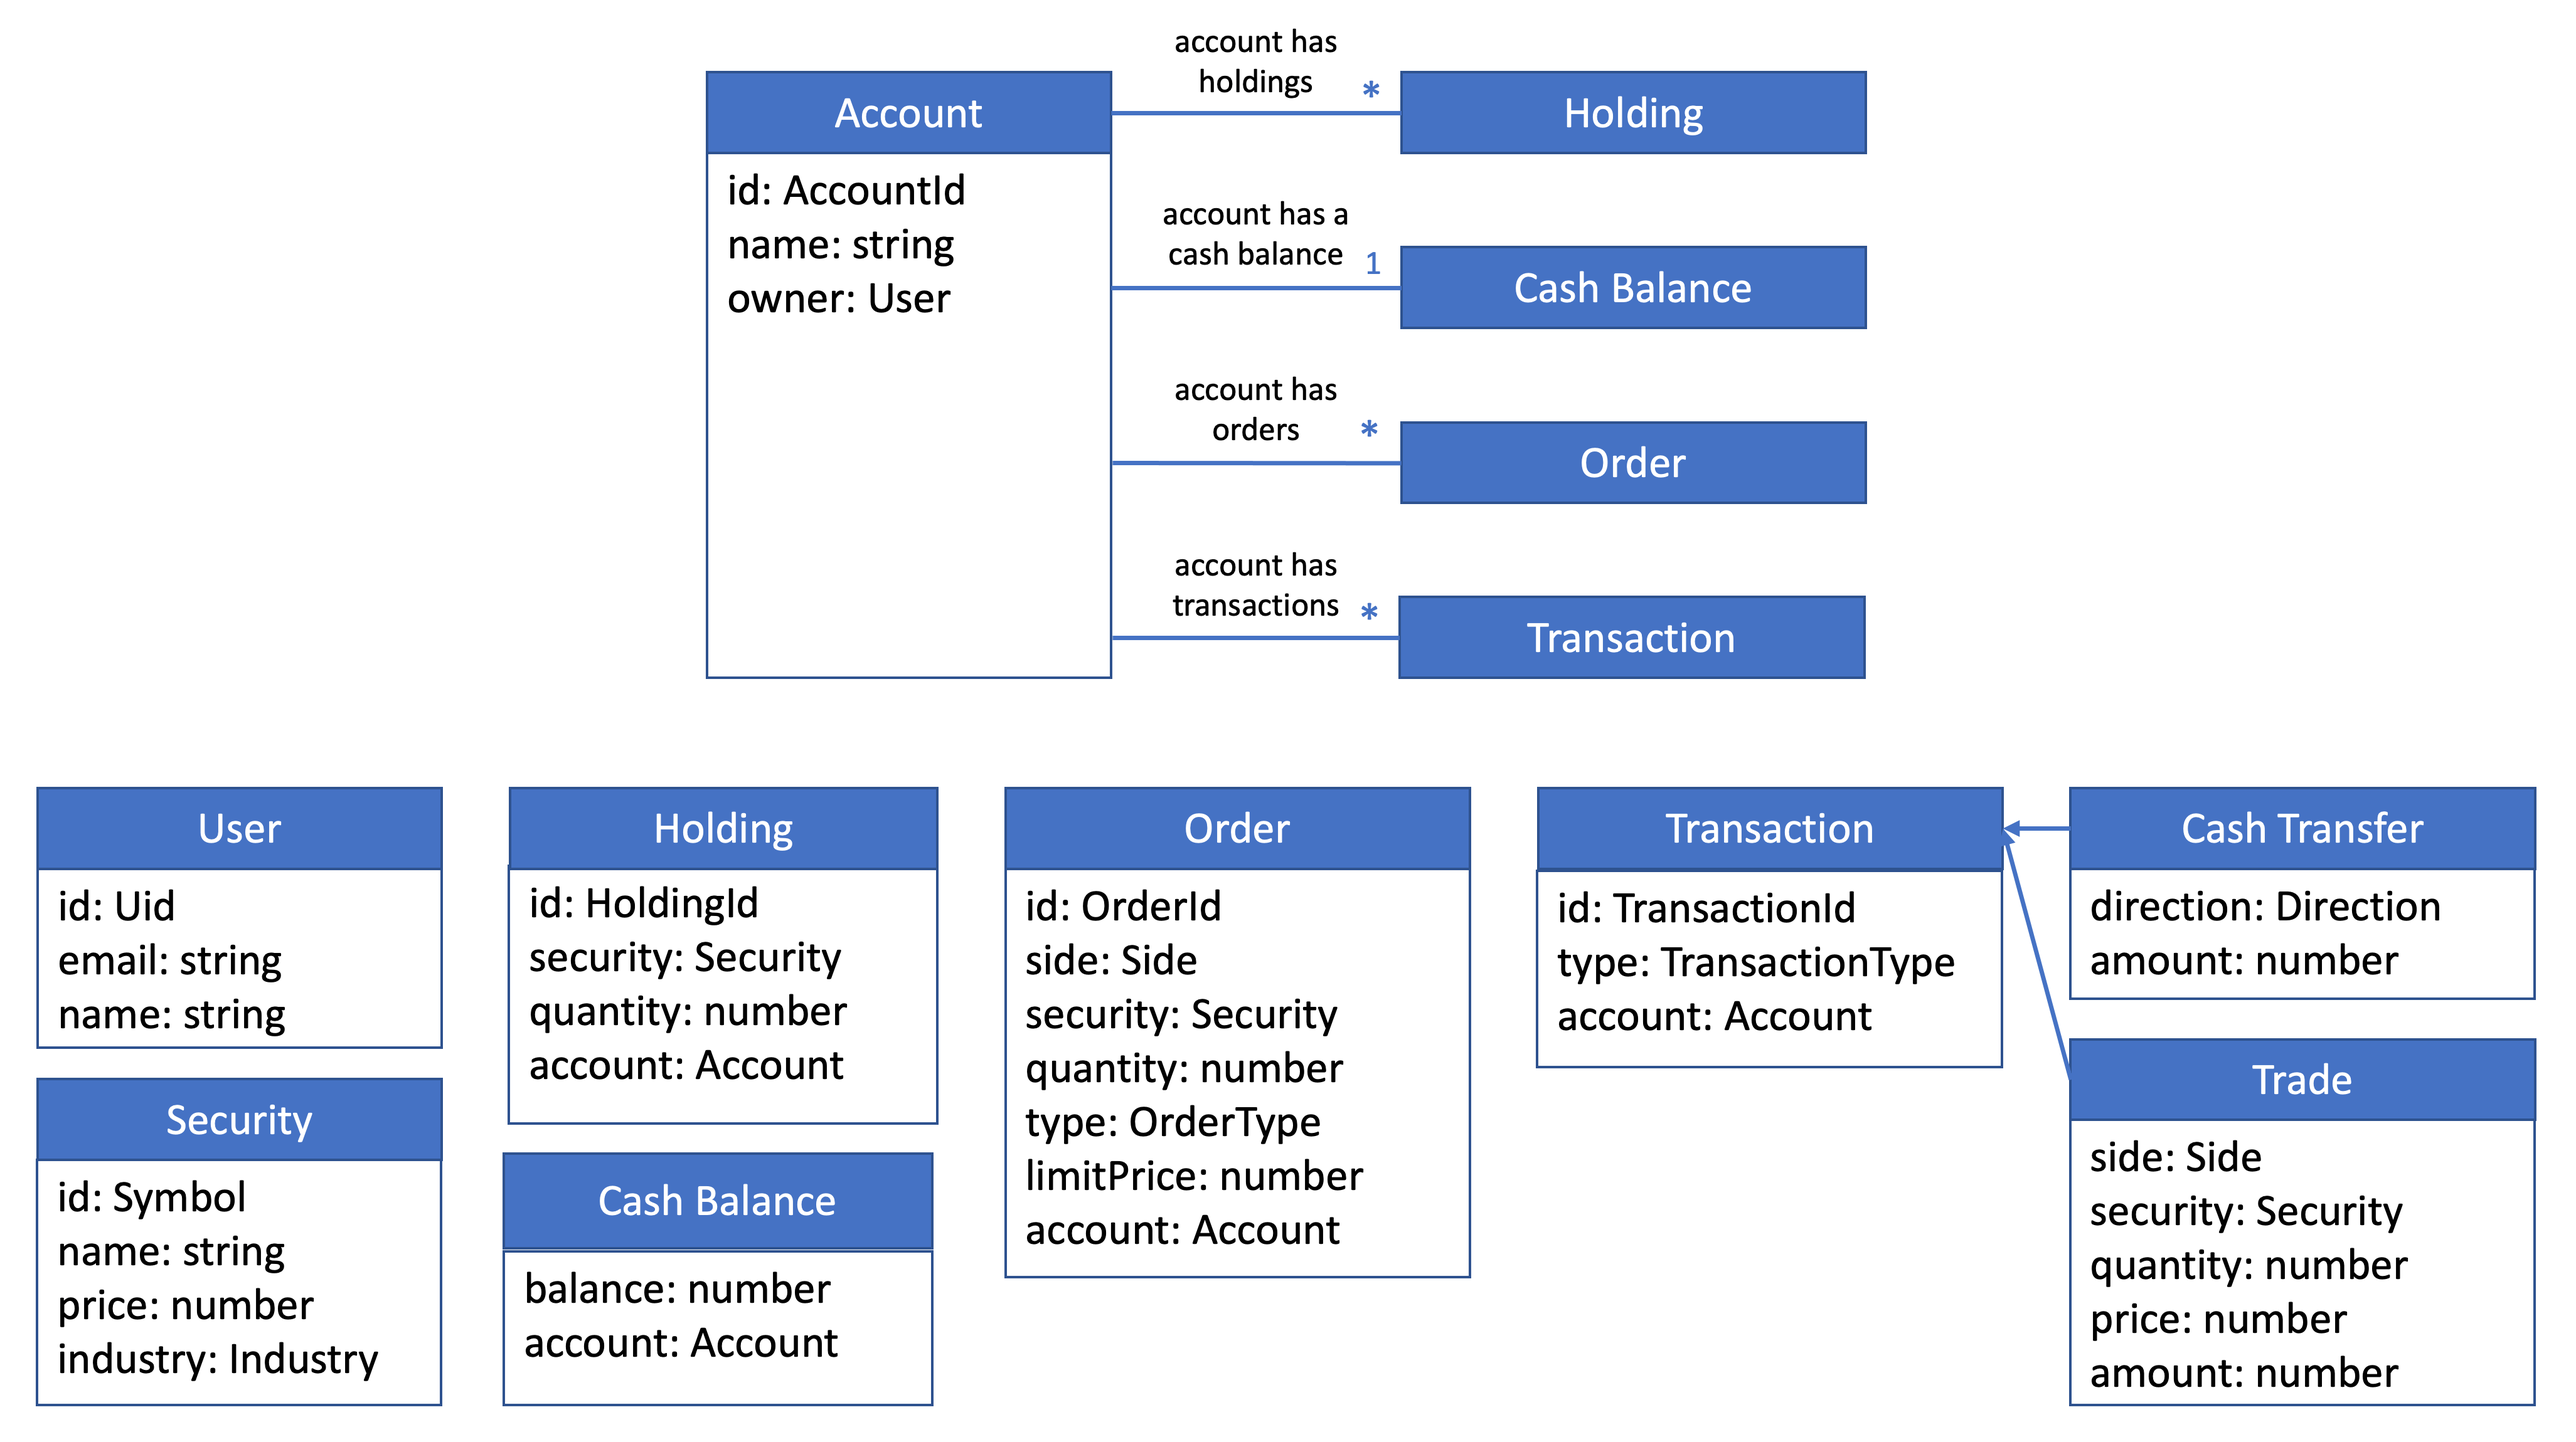
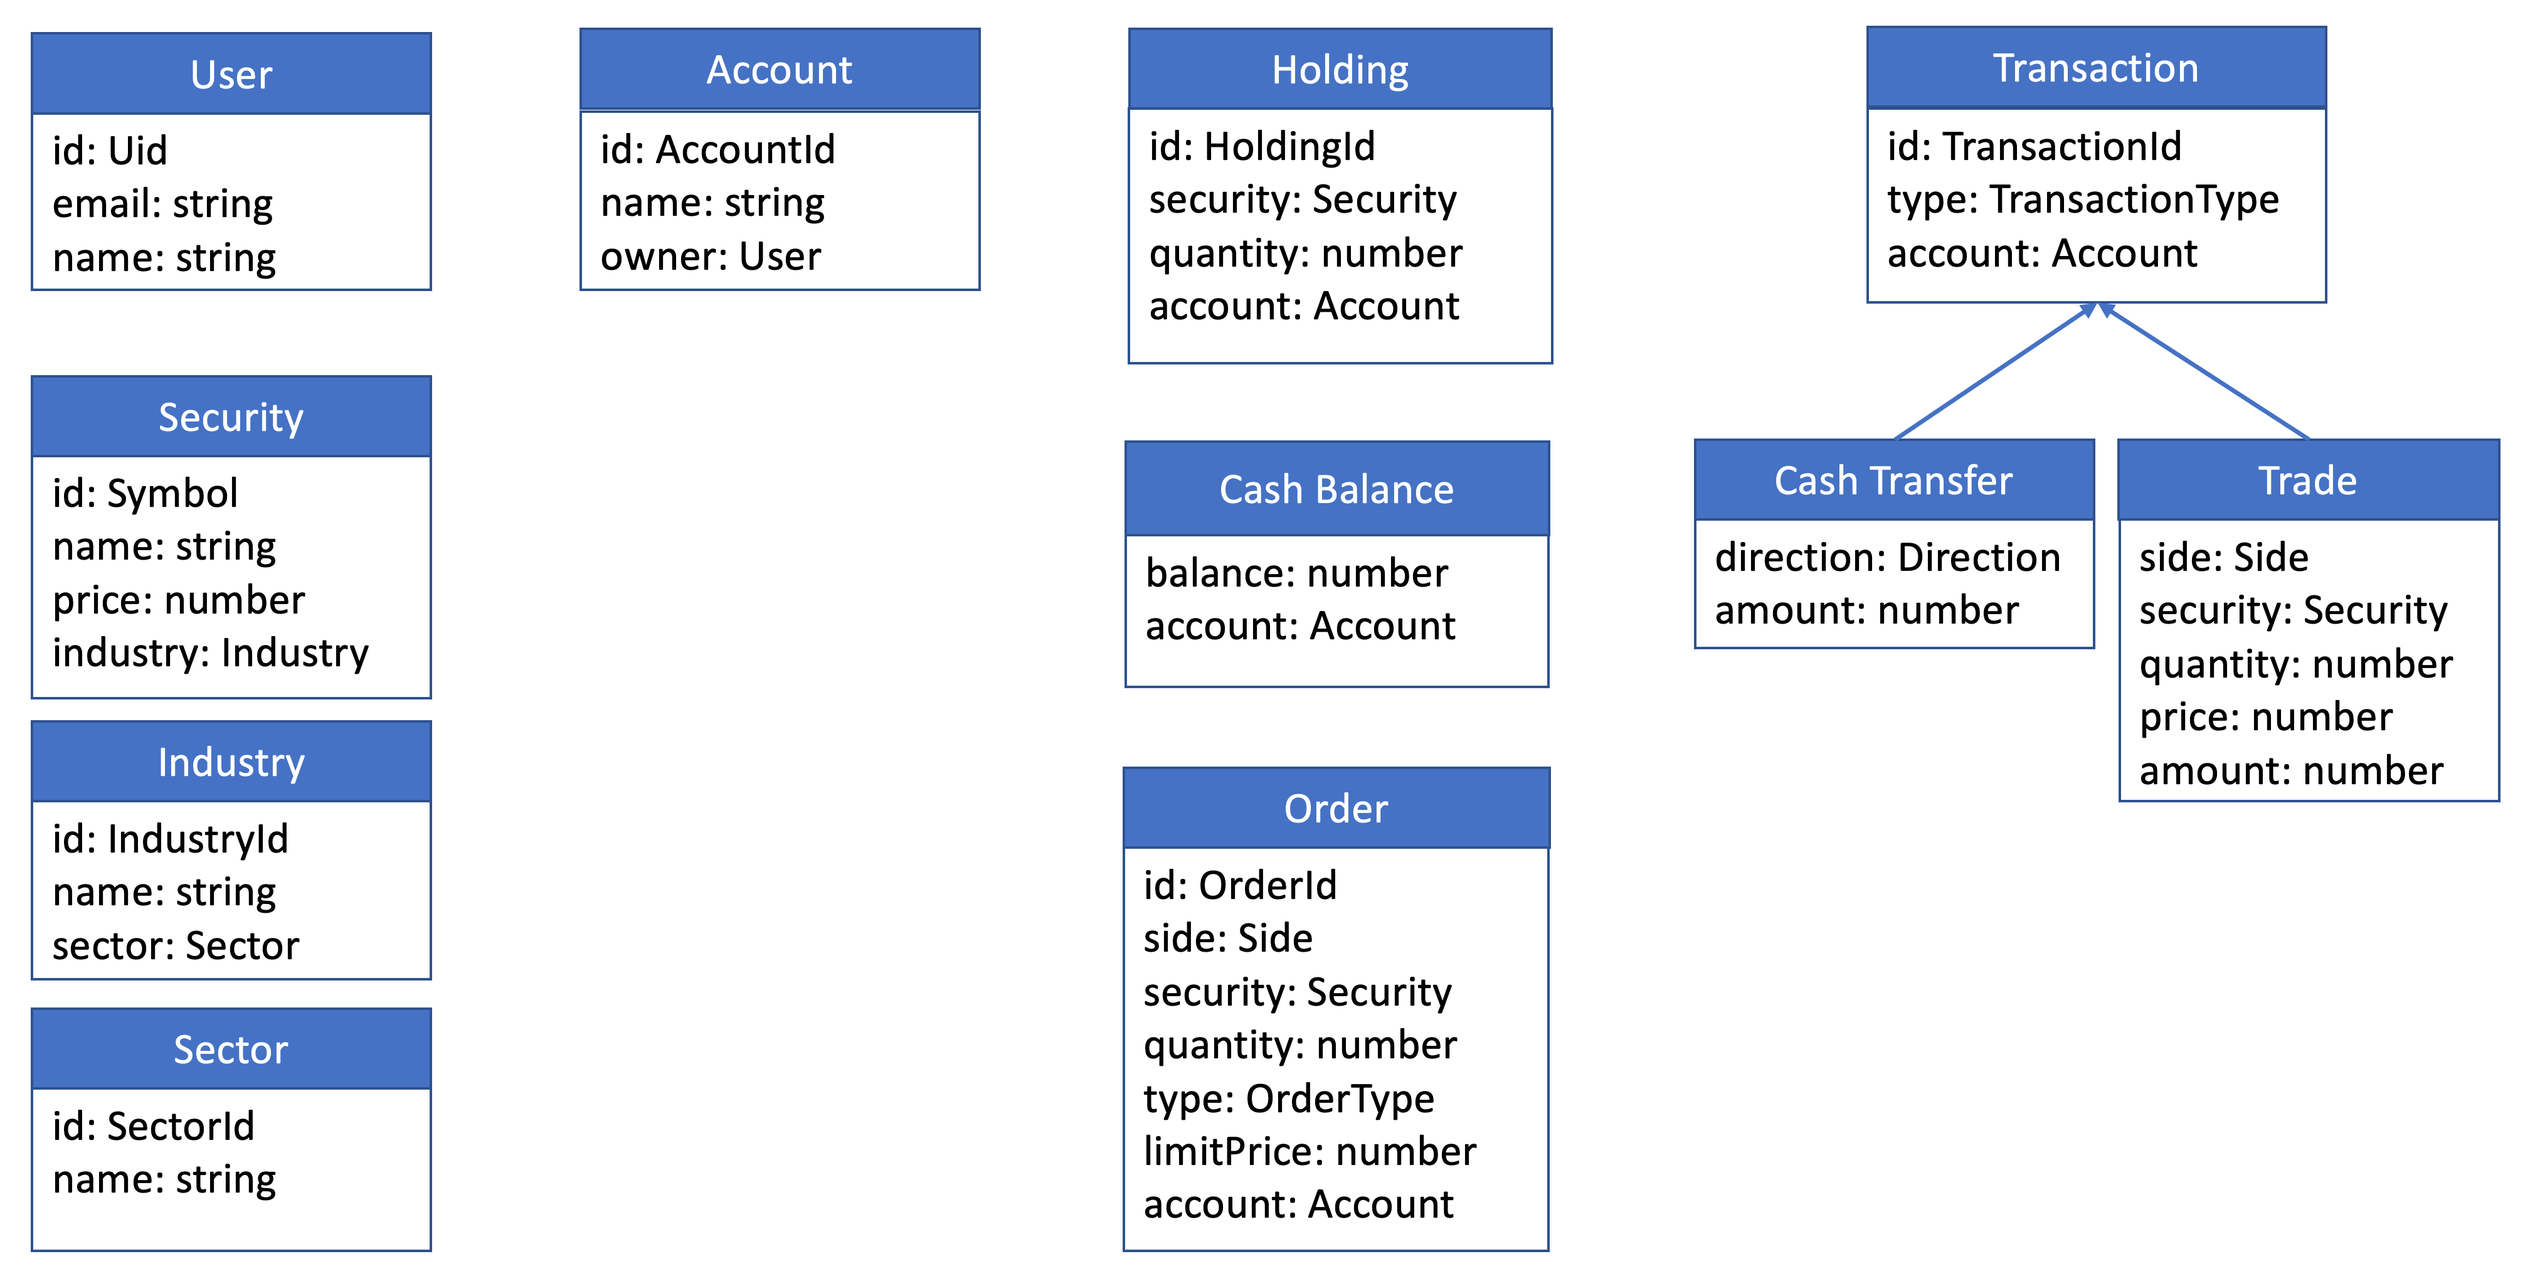
Refined the domain model

diff --git a/README.md b/README.md
@@ -25,7 +25,7 @@ According to
 
 ![Bullsfirst Domain Model](docs/domain-model-1.png)
 
-### Bullsfirst Model Objects
+### Model Objects
 
 ![Bullsfirst Domain Model](docs/domain-model-2.png)
 
